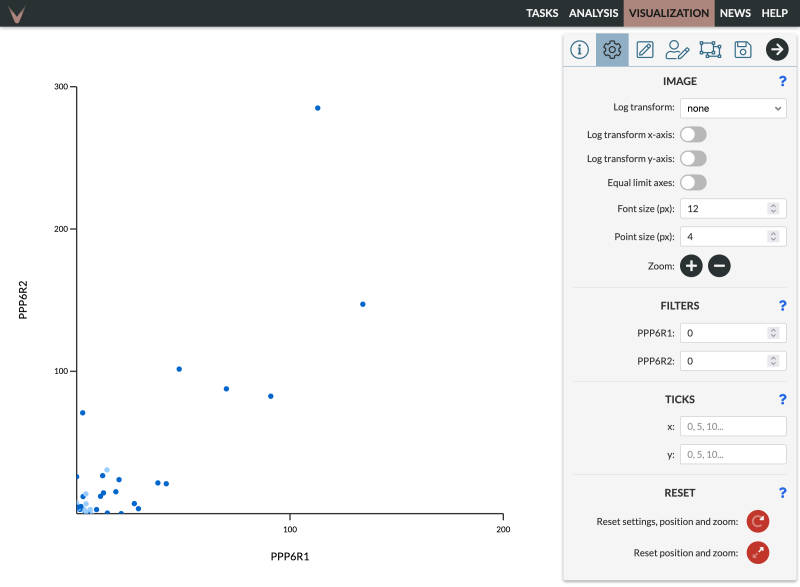
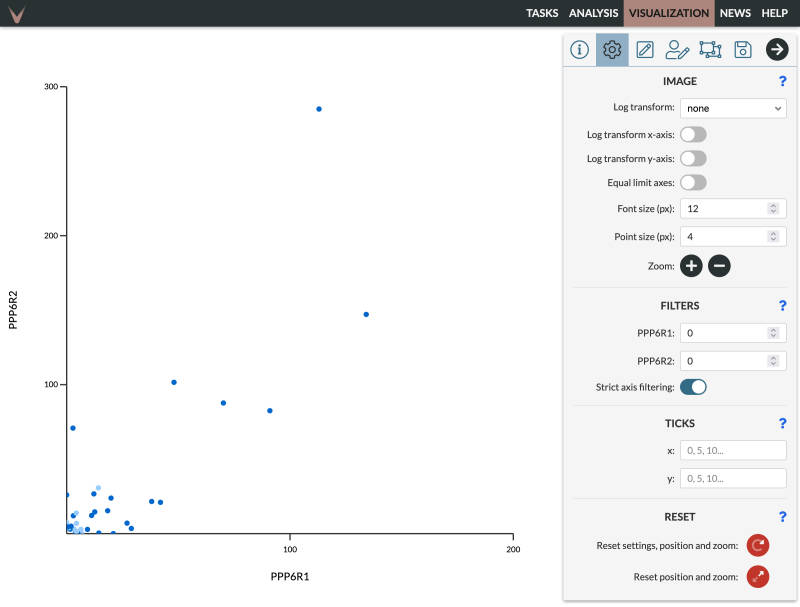
Add scatter filtering for only one axis

diff --git a/src/state/visualization/scatter/points-actions.test.js b/src/state/visualization/scatter/points-actions.test.js
@@ -10,13 +10,14 @@ const mockStore = configureMockStore(middlewares);
 describe('Points actions', () => {
   describe('filter points', () => {
     it('should dispatch an action to filter points by x axis', async () => {
-      const filter = 'xFilter';
+      const setting = 'xFilter';
       const value = 10;
 
       const state = {
         settings: {
           main: {
             current: {
+              strictAxisFiltering: true,
               xFilter: 0,
               yFilter: 5,
             },
@@ -30,6 +31,7 @@ describe('Points actions', () => {
         {
           AUGMENT_WITH_ACTIVE_SNAPSHOT: true,
           type: actions.FILTER_POINTS,
+          strictAxisFiltering: true,
           x: 10,
           y: 5,
         },
@@ -40,18 +42,19 @@ describe('Points actions', () => {
           value: 10,
         },
       ];
-      await store.dispatch(actions.filterPoints(filter, value));
+      await store.dispatch(actions.filterPoints(setting, value));
       expect(store.getActions()).toEqual(expectedActions);
     });
 
     it('should dispatch an action to filter points by y axis', async () => {
-      const filter = 'yFilter';
+      const setting = 'yFilter';
       const value = 10;
 
       const state = {
         settings: {
           main: {
             current: {
+              strictAxisFiltering: true,
               xFilter: 0,
               yFilter: 5,
             },
@@ -65,6 +68,7 @@ describe('Points actions', () => {
         {
           AUGMENT_WITH_ACTIVE_SNAPSHOT: true,
           type: actions.FILTER_POINTS,
+          strictAxisFiltering: true,
           x: 0,
           y: 10,
         },
@@ -75,7 +79,44 @@ describe('Points actions', () => {
           value: 10,
         },
       ];
-      await store.dispatch(actions.filterPoints(filter, value));
+      await store.dispatch(actions.filterPoints(setting, value));
+      expect(store.getActions()).toEqual(expectedActions);
+    });
+
+    it('should dispatch an action to change strict filtering', async () => {
+      const setting = 'strictAxisFiltering';
+      const value = false;
+
+      const state = {
+        settings: {
+          main: {
+            current: {
+              strictAxisFiltering: true,
+              xFilter: 0,
+              yFilter: 5,
+            },
+          },
+        },
+        tabs: { activeSnapshot: 'main' },
+      };
+      const store = mockStore(state);
+
+      const expectedActions = [
+        {
+          AUGMENT_WITH_ACTIVE_SNAPSHOT: true,
+          type: actions.FILTER_POINTS,
+          strictAxisFiltering: false,
+          x: 0,
+          y: 5,
+        },
+        {
+          AUGMENT_WITH_ACTIVE_SNAPSHOT: true,
+          setting: 'strictAxisFiltering',
+          type: settingActions.UPDATE_SETTING,
+          value: false,
+        },
+      ];
+      await store.dispatch(actions.filterPoints(setting, value));
       expect(store.getActions()).toEqual(expectedActions);
     });
   });

diff --git a/src/state/visualization/scatter/points-helpers.test.js b/src/state/visualization/scatter/points-helpers.test.js
@@ -1,8 +1,12 @@
 import filterPoints from './points-helpers';
 
 describe('Points helpers', () => {
-  it('should filter points', () => {
-    const filters = { x: 5, y: 10 };
+  it('should filter points by both axes (strict)', () => {
+    const filters = {
+      strictAxisFiltering: true,
+      x: 5,
+      y: 10,
+    };
     const points = [
       { label: 'a', x: 5, y: 10 },
       { label: 'b', x: 5, y: 9.9 },
@@ -12,6 +16,29 @@ describe('Points helpers', () => {
 
     const expected = [
       { label: 'a', x: 5, y: 10 },
+      { label: 'd', x: 7, y: 100 },
+    ];
+    expect(filterPoints(points, filters)).toEqual(expected);
+  });
+
+  it('should filter points by one axes only', () => {
+    const filters = {
+      strictAxisFiltering: false,
+      x: 5,
+      y: 10,
+    };
+    const points = [
+      { label: 'a', x: 5, y: 10 },
+      { label: 'b', x: 5, y: 9.9 },
+      { label: 'c', x: 4.0, y: 10 },
+      { label: 'd', x: 7, y: 100 },
+      { label: 'e', x: 4, y: 9 },
+    ];
+
+    const expected = [
+      { label: 'a', x: 5, y: 10 },
+      { label: 'b', x: 5, y: 9.9 },
+      { label: 'c', x: 4.0, y: 10 },
       { label: 'd', x: 7, y: 100 },
     ];
     expect(filterPoints(points, filters)).toEqual(expected);

diff --git a/src/visualization/defaults/scatter/settings.test.js b/src/visualization/defaults/scatter/settings.test.js
@@ -84,6 +84,7 @@ describe('Default settings scatterplot', () => {
         logX: true,
         logY: true,
         radius: 6,
+        strictAxisFiltering: false,
         xFilter: 1,
         yFilter: 1,
         xTicks: [1, 2, 4, 8],
@@ -102,6 +103,7 @@ describe('Default settings scatterplot', () => {
         logX: 'true',
         logY: 'true',
         radius: '6',
+        strictAxisFiltering: 'false',
         xFilter: '1',
         yFilter: '1',
         xTicks: null,
@@ -121,6 +123,7 @@ describe('Default settings scatterplot', () => {
         logX: true,
         logY: true,
         radius: 6,
+        strictAxisFiltering: false,
         xFilter: 1,
         yFilter: 1,
         xTicks: [1, 2, 4, 8],
@@ -145,6 +148,7 @@ describe('Default settings scatterplot', () => {
         logX: true,
         logY: true,
         radius: 6,
+        strictAxisFiltering: false,
         xFilter: 1,
         yFilter: 1,
         xTicks: [1, 2, 4, 8],
@@ -173,6 +177,7 @@ describe('Default settings scatterplot', () => {
         logX: true,
         logY: true,
         radius: 6,
+        strictAxisFiltering: false,
         xFilter: 1,
         yFilter: 1,
         xTicks: [1, 2, 4, 8],

diff --git a/src/state/visualization/scatter/points-actions.js b/src/state/visualization/scatter/points-actions.js
@@ -11,17 +11,25 @@ const filterPointsFromThunk = (values) => ({
   ...values,
 });
 
-export const filterPoints = (filter, value) =>
+export const filterPoints = (setting, value) =>
   (dispatch, getState) => {
-    const { xFilter, yFilter } = getDataProperty(getState(), 'settings', 'current');
+    const { strictAxisFiltering, xFilter, yFilter } = getDataProperty(getState(), 'settings', 'current');
 
     batch(() => {
-      dispatch(filterPointsFromThunk({
+      const newState = {
+        strictAxisFiltering,
         x: xFilter,
         y: yFilter,
-        [filter === 'xFilter' ? 'x' : 'y']: value,
-      }));
-      dispatch(updateSetting(filter, value));
+      };
+      if (setting === 'xFilter') {
+        newState.x = value;
+      } if (setting === 'yFilter') {
+        newState.y = value;
+      } if (setting === 'strictAxisFiltering') {
+        newState.strictAxisFiltering = value;
+      }
+      dispatch(filterPointsFromThunk(newState));
+      dispatch(updateSetting(setting, value));
     });
   }
 ;

diff --git a/src/help/visualization/scatter/scatter.js b/src/help/visualization/scatter/scatter.js
@@ -125,7 +125,7 @@ const Scatter = () => (
     <figure className="help__image-screenshot">
       <Image
         alt="Interactive scatter plot settings"
-        height={587}
+        height={607}
         images={images}
         name="scatter-settings"
         width={800}
@@ -163,7 +163,9 @@ const Scatter = () => (
       {' '}
       area has inputs for filtering the points to display on the image by axis.
       The filters are inclusive of the value specified and compare against the absolute
-      value of points, i.e. both -2 and +2 would pass a filter of 2.
+      value of points, i.e. both -2 and +2 would pass a filter of 2. The default requires
+      a point to pass both filters in order to be displayed, but toggling off the &quot;Strict axis
+      filtering&quot; option will require a point to pass only one of the filters.
     </p>
     <h4 id="settings-ticks">Ticks</h4>
     <p>

diff --git a/src/visualization/display/side-panel/panels/settings/scatter/filter/filter.js b/src/visualization/display/side-panel/panels/settings/scatter/filter/filter.js
@@ -3,10 +3,12 @@ import React from 'react';
 
 import Input from '../../../../../../../components/input/text/input-text-container';
 import Section from '../../../section/section';
+import Switch from '../../../../../../../components/input/switch/switch-container';
 
 const Filter = ({
   handleSettingChange,
   labels,
+  strictAxisFiltering,
   xFilter,
   yFilter,
 }) => (
@@ -32,6 +34,12 @@ const Filter = ({
       type="number"
       value={yFilter}
     />
+    <Switch
+      checked={strictAxisFiltering}
+      id="strictAxisFiltering"
+      label="Strict axis filtering"
+      onChange={handleSettingChange}
+    />
   </Section>
 );
 
@@ -41,6 +49,7 @@ Filter.propTypes = {
     x: PropTypes.string,
     y: PropTypes.string,
   }).isRequired,
+  strictAxisFiltering: PropTypes.bool.isRequired,
   xFilter: PropTypes.number.isRequired,
   yFilter: PropTypes.number.isRequired,
 };

diff --git a/src/visualization/defaults/scatter/settings.js b/src/visualization/defaults/scatter/settings.js
@@ -10,6 +10,7 @@ export const defaultState = {
   logX: false,
   logY: false,
   radius: 4,
+  strictAxisFiltering: true,
   xFilter: 0,
   yFilter: 0,
   xTicks: [],
@@ -54,6 +55,7 @@ export const validateSettings = (userSettings) => {
     logX,
     logY,
     radius,
+    strictAxisFiltering,
     xFilter,
     yFilter,
     xTicks,
@@ -70,6 +72,7 @@ export const validateSettings = (userSettings) => {
     logX: validateLogAxis(validatedLogBase, logX, defaultState.logX),
     logY: validateLogAxis(validatedLogBase, logY, defaultState.logY),
     radius: validateNumber(radius, defaultState.radius),
+    strictAxisFiltering: validateBoolean(strictAxisFiltering, defaultState.strictAxisFiltering),
     xFilter: validateNumber(xFilter, defaultState.xFilter),
     yFilter: validateNumber(yFilter, defaultState.yFilter),
     xTicks: validateTicks('xTicks', userSettings),

diff --git a/src/visualization/display/side-panel/panels/settings/scatter/filter/filter-container.js b/src/visualization/display/side-panel/panels/settings/scatter/filter/filter-container.js
@@ -9,7 +9,7 @@ import { selectPlot } from '../../../../../../../state/selector/visualization/sc
 
 const FilterContainer = () => {
   const dispatch = useDispatch();
-  const { xFilter, yFilter } = useSelector((state) => selectDataProperty(state, 'settings', 'current'));
+  const { strictAxisFiltering, xFilter, yFilter } = useSelector((state) => selectDataProperty(state, 'settings', 'current'));
   const { labels } = useSelector((state) => selectPlot(state));
 
   const handleSettingChange = (e, name, value) => {
@@ -20,6 +20,7 @@ const FilterContainer = () => {
     <Filter
       handleSettingChange={handleSettingChange}
       labels={labels}
+      strictAxisFiltering={strictAxisFiltering}
       xFilter={xFilter}
       yFilter={yFilter}
     />

diff --git a/src/state/visualization/settings/display-actions.test.js b/src/state/visualization/settings/display-actions.test.js
@@ -20,7 +20,7 @@ describe('Display actions', () => {
         ],
         settings: {
           main: {
-            current: { xFilter: 0, yFilter: 10 },
+            current: { strictAxisFiltering: true, xFilter: 0, yFilter: 10 },
           },
         },
         tabs: { activeSnapshot: 'main' },
@@ -29,7 +29,11 @@ describe('Display actions', () => {
 
       const expectedActions = [{
         AUGMENT_WITH_ACTIVE_SNAPSHOT: true,
-        filters: { x: 0, y: 10 },
+        filters: {
+          strictAxisFiltering: true,
+          x: 0,
+          y: 10,
+        },
         points: [4, 5, 6],
         setting: 'selectedPlot',
         type: actions.CHANGE_SCATTER_PLOT,

diff --git a/src/state/visualization/settings/display-actions.js b/src/state/visualization/settings/display-actions.js
@@ -91,8 +91,12 @@ export const changeScatterPlot = (index) =>
 
     if (index !== selectedPlot) {
       const { plots } = state;
-      const { xFilter, yFilter } = getDataProperty(state, 'settings', 'current');
-      const filters = { x: xFilter, y: yFilter };
+      const { strictAxisFiltering, xFilter, yFilter } = getDataProperty(state, 'settings', 'current');
+      const filters = {
+        strictAxisFiltering,
+        x: xFilter,
+        y: yFilter,
+      };
       dispatch(changeScatterFromThunk(index, plots[index].points, filters));
     }
   }

diff --git a/src/state/visualization/scatter/points-reducer.test.js b/src/state/visualization/scatter/points-reducer.test.js
@@ -119,7 +119,11 @@ describe('Points reducer', () => {
       },
     };
     const action = {
-      filters: { x: 0, y: 5 },
+      filters: {
+        strictAxisFiltering: true,
+        x: 0,
+        y: 5,
+      },
       points: [
         { label: 'e', x: 0, y: 5 },
         { label: 'f', x: 0, y: 4 },
@@ -175,6 +179,7 @@ describe('Points reducer', () => {
     const action = {
       snapshotID: 'main',
       type: actions.FILTER_POINTS,
+      strictAxisFiltering: true,
       x: 10,
       y: 5,
     };

diff --git a/src/state/visualization/scatter/points-helpers.js b/src/state/visualization/scatter/points-helpers.js
@@ -1,5 +1,8 @@
-const filterPoints = (points, filters) => (
-  points.filter((point) => Math.abs(point.x) >= filters.x && Math.abs(point.y) >= filters.y)
-);
+const filterPoints = (points, filters) => {
+  if (filters.strictAxisFiltering) {
+    return points.filter((point) => Math.abs(point.x) >= filters.x && Math.abs(point.y) >= filters.y);
+  }
+  return points.filter((point) => Math.abs(point.x) >= filters.x || Math.abs(point.y) >= filters.y);
+};
 
 export default filterPoints;
